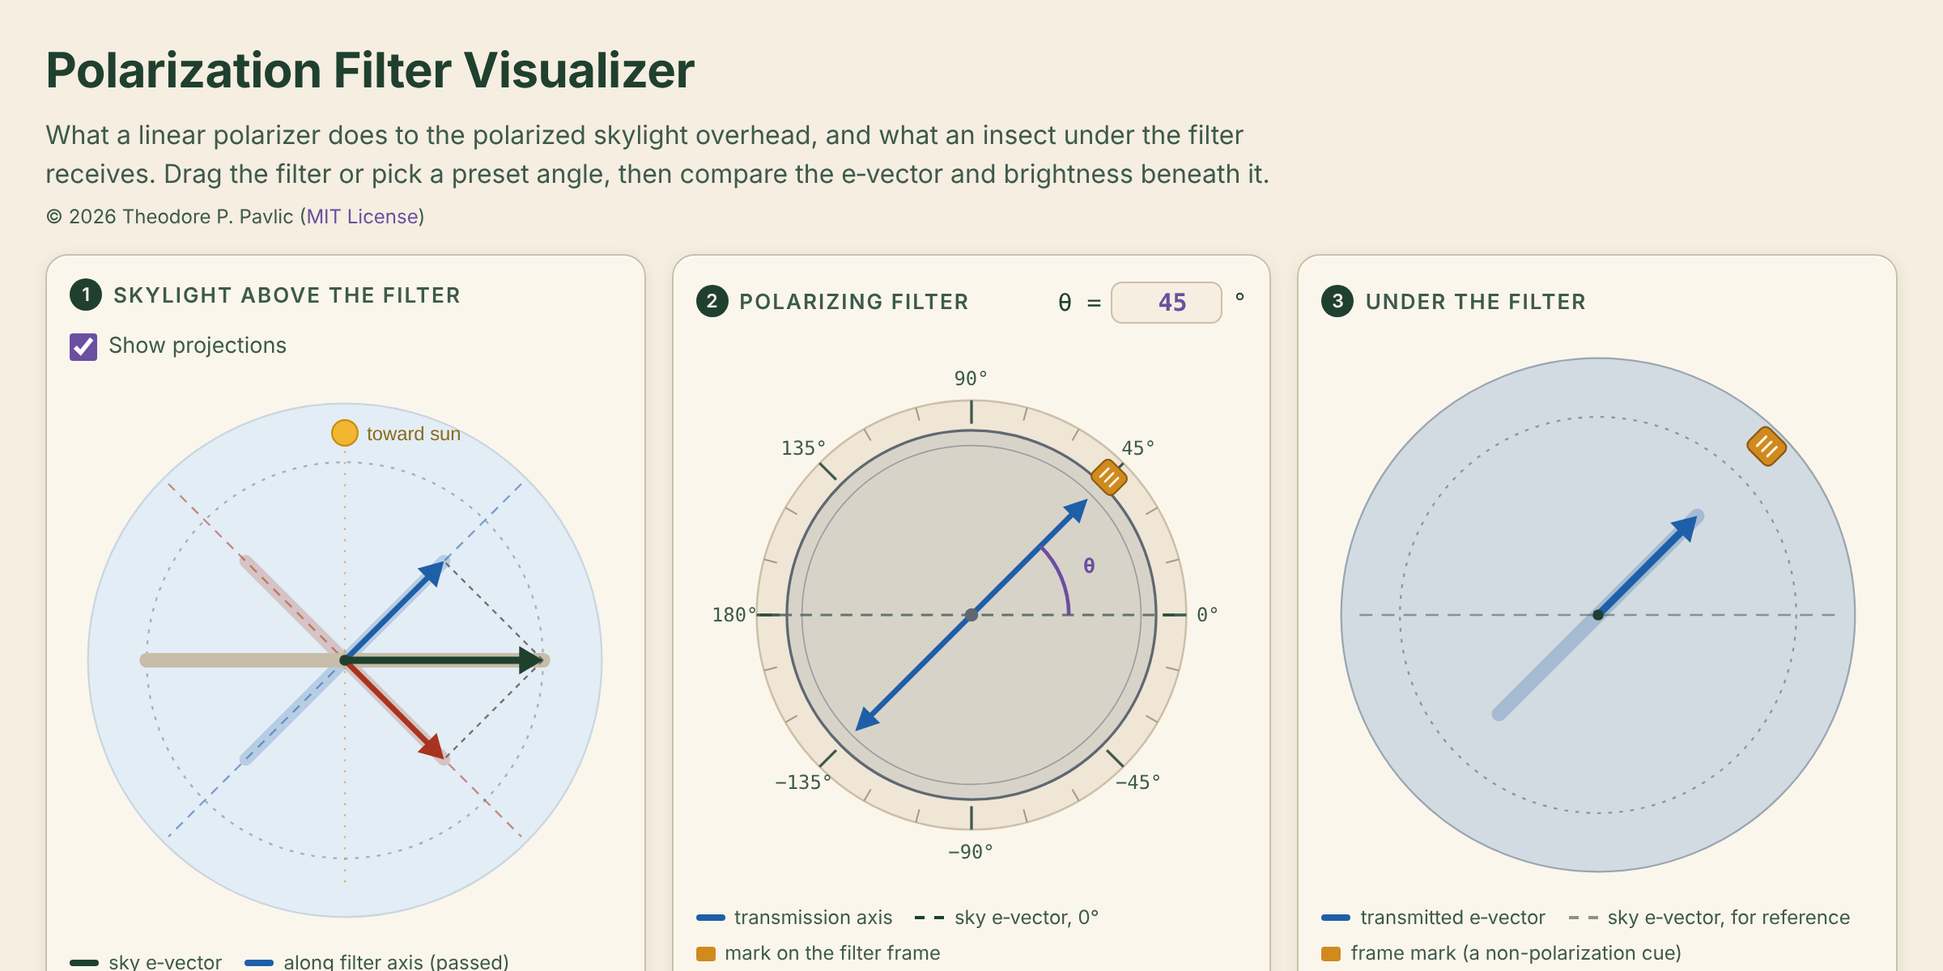
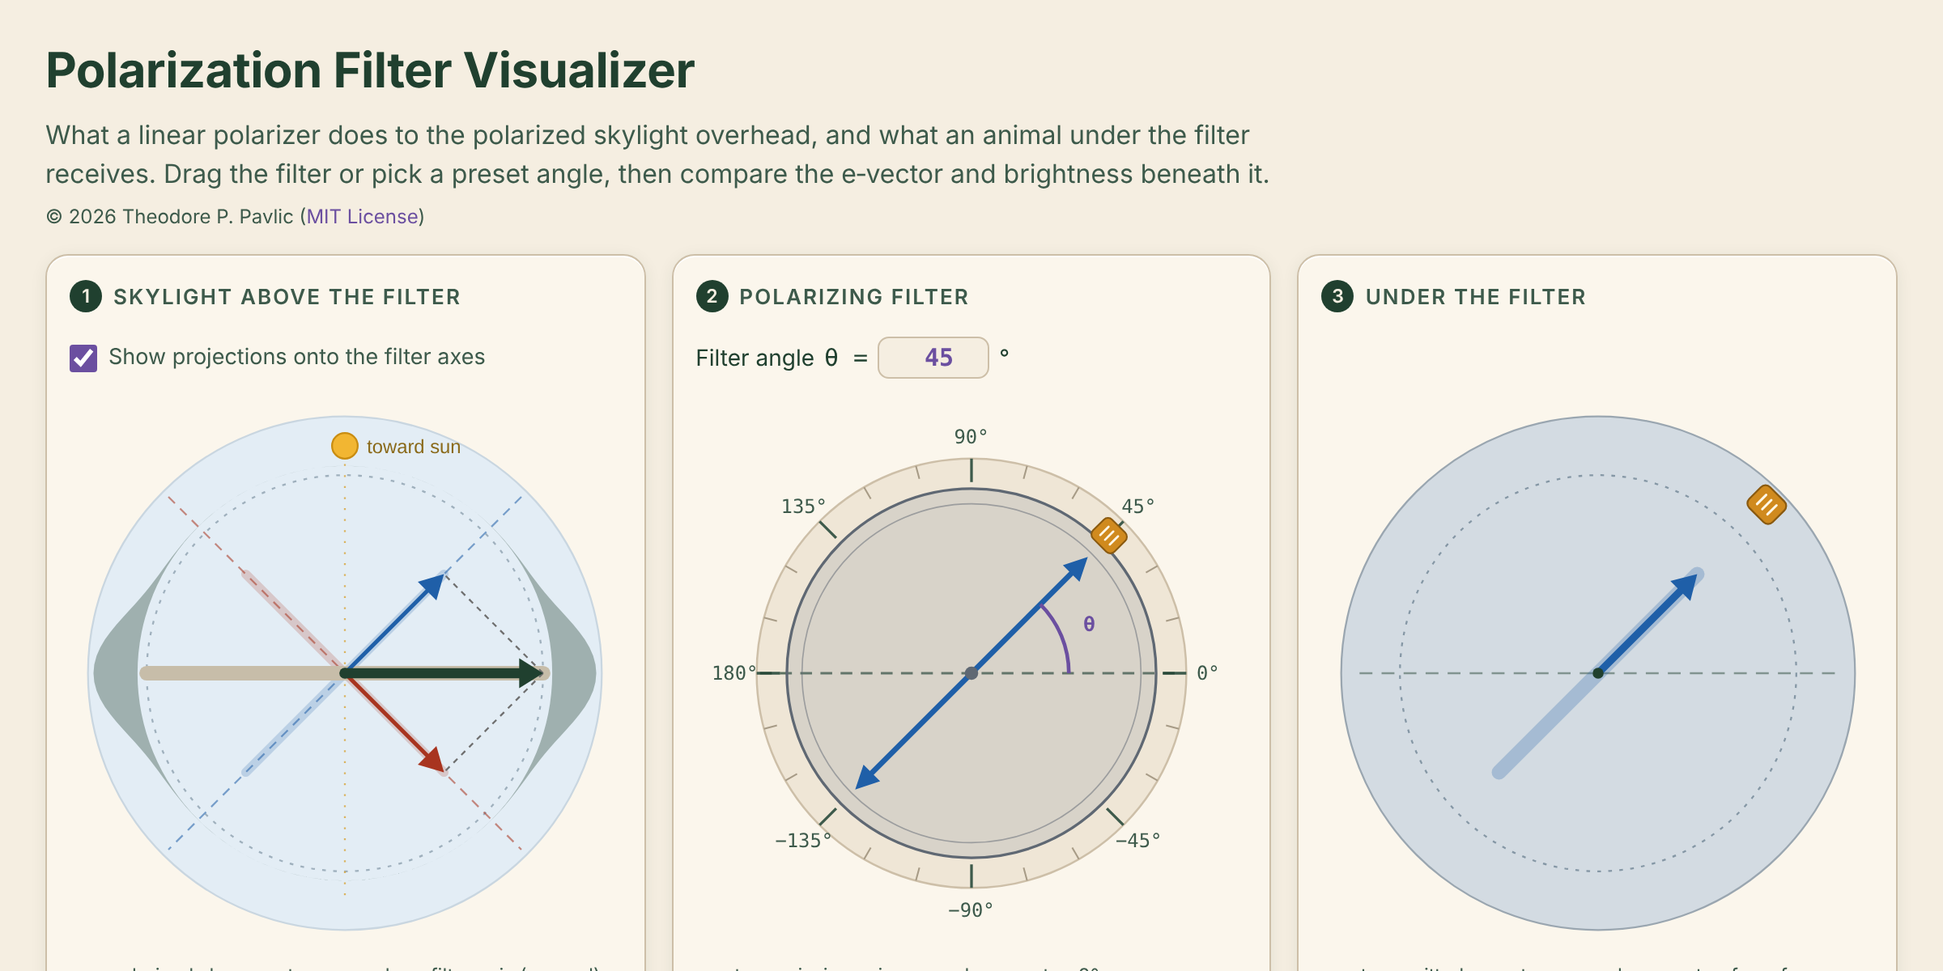
pfilter: Show the sky as a compass switch with an orientation band
The degree-of-polarization slider and the passed-amplitude curve gave
way to a switch between a polarized sky (a sky compass) and an
unpolarized one. A band around the edge of the skylight panel shows
how the sky's e-vector orientations are distributed: peaked at 0 and
180 degrees with the compass on, and spread evenly, with the sun gone,
with it off. The model keeps a general degree of polarization, which
the switch sets to 1 or 0, and the notes still give the brightness for
a partially polarized sky.

The frame mark in the under-filter panel is now a drag handle that
turns the filter as the dial does. Its touch target is an HTML element
over the mark, because touch-action is not honored reliably inside an
SVG, and so a swipe elsewhere on the panel still scrolls the page.

The sky e-vector arrow is now much heavier than its two components, so
that it reads as the primary quantity, and the preview image shows the
new band.

diff --git a/polarization_filter/polarization_filter_visualizer.html b/polarization_filter/polarization_filter_visualizer.html
@@ -84,6 +84,12 @@
   svg#dial{cursor:grab;touch-action:none;border-radius:50%}
   svg#dial.dragging{cursor:grabbing}
   svg#dial:focus{outline:none}
+  /* An HTML target over panel 3's frame mark: touch-action is honored on HTML elements, not reliably
+     inside an SVG, so a drag that starts here turns the filter, whereas the rest of the panel scrolls. */
+  .figwrap{position:relative;width:100%;max-width:340px;margin:0 auto}
+  .grip{position:absolute;width:15%;aspect-ratio:1;border-radius:50%;transform:translate(-50%,-50%);
+    cursor:grab;touch-action:none}
+  .grip.dragging{cursor:grabbing}
   svg#dial:focus-visible{outline:2px solid var(--accent);outline-offset:4px}
 
   .chk{display:inline-flex;align-items:center;gap:7px;font-size:13.5px;color:var(--ink-soft);cursor:pointer;user-select:none;min-height:30px}
@@ -195,14 +201,14 @@
       </div>
       <svg id="src" class="fig" viewBox="0 0 300 300" role="img" aria-label="Sky e‑vector, with its components along and across the filter's transmission axis"></svg>
       <div class="legend">
-        <span class="sw"><i style="background:var(--ink)"></i>polarized sky e‑vector</span>
-        <span class="sw proj-only"><i style="background:var(--pass)"></i>along filter axis (passed)</span>
-        <span class="sw proj-only"><i style="background:var(--block)"></i>across filter axis (blocked)</span>
-        <span class="sw proj-only"><i class="dash" style="border-color:var(--accent)"></i>amplitude passed at each filter angle</span>
+        <span class="sw"><i style="background:var(--ink);height:6px;border-radius:3px"></i>polarized sky e‑vector</span>
+        <span class="sw proj-only"><i style="background:var(--pass);height:3px"></i>along filter axis (passed)</span>
+        <span class="sw proj-only"><i style="background:var(--block);height:3px"></i>across filter axis (blocked)</span>
+        <span class="sw"><i style="background:#20402f59;height:8px"></i>e&#8209;vector orientations in the sky</span>
       </div>
       <div class="rest">
       <div class="readout">
-        <div class="row"><span>Sky e‑vector (reference)</span><span class="v">0°</span></div>
+        <div class="row"><span>Sky e‑vector (reference)</span><span class="v" id="rSky">0°</span></div>
         <div class="row"><span>Passed share of polarized light, cos<sup>2</sup>&theta;</span><span class="v" id="rCos">1.00</span></div>
         <div class="row"><span>Blocked share of polarized light, sin<sup>2</sup>&theta;</span><span class="v" id="rSin">0.00</span></div>
       </div>
@@ -239,11 +245,14 @@
         <h2 id="h-out"><span class="step">3</span>Under the filter</h2>
       </div>
       <div class="tools" aria-hidden="true"></div>
-      <svg id="out" class="fig" viewBox="0 0 300 300" role="img" aria-label="Transmitted e‑vector seen by an animal under the filter"></svg>
+      <div class="figwrap">
+        <svg id="out" class="fig" viewBox="0 0 300 300" role="img" aria-label="Transmitted e‑vector seen by an animal under the filter"></svg>
+        <div class="grip" id="outGrip" title="Drag to turn the filter" aria-hidden="true"></div>
+      </div>
       <div class="legend">
         <span class="sw"><i style="background:var(--pass)"></i>transmitted e‑vector</span>
         <span class="sw"><i class="dash" style="border-color:#20402f88"></i>sky e‑vector, for reference</span>
-        <span class="sw"><i class="tab" style="background:var(--mark)"></i>frame mark (a non-polarization cue)</span>
+        <span class="sw"><i class="tab" style="background:var(--mark)"></i>frame mark, a non-polarization cue (drag to turn)</span>
       </div>
       <div class="rest">
       <div class="readout">
@@ -259,9 +268,8 @@
 
   <section class="card settings" aria-label="Settings">
     <div class="slider">
-      <div class="lab"><label for="dop">Degree of polarization of the skylight, p</label><span class="vl" id="dopV">100%</span></div>
-      <input type="range" id="dop" min="0" max="100" step="1" value="100">
-      <div class="hint">The fraction of the skylight's intensity that is polarized along one e&#8209;vector; the rest has no preferred orientation. Start at 100% for the textbook case. A clear sky overhead is only partially polarized.</div>
+      <div class="lab"><label class="chk" style="min-height:0"><input type="checkbox" id="compass" checked> Polarized sky (a sky compass)</label></div>
+      <div class="hint">On, the skylight overhead is polarized along one e&#8209;vector set by the sun's position, which an animal can use as a compass. Off, the skylight has no preferred e&#8209;vector orientation, as in a world without a sky compass. The band around the edge of panel 1 shows how the sky's e&#8209;vector orientations are distributed.</div>
     </div>
     <div class="slider">
       <div class="lab"><label class="chk" style="min-height:0"><input type="checkbox" id="anim" checked> Animate the oscillation</label><span class="vl" id="rateV">0.40 Hz</span></div>
@@ -283,7 +291,7 @@
       <ul>
         <li><b>Within a pair</b> (for example, 45° and &minus;135°), the light under the filter is identical in e‑vector and brightness; only the physical filter is turned around. If the animals steer by polarization alone, their paths should agree. A difference points to some other cue, such as a mark, edge, scratch, reflection, or shadow on the filter or its mount.</li>
         <li><b>45° against &minus;45°</b> (and 135° against &minus;135°) matches brightness exactly, at <span id="kpHalf">0.50</span> of the open sky for any degree of polarization, and mirrors the e‑vector. This tests the e‑vector's direction without a brightness confound.</li>
-        <li><b>0° against 90°</b> rotates the e‑vector by 90° but also changes brightness, from <span id="kp0">1.00</span> to <span id="kp90">0.00</span> at the current p, and so confounds e‑vector direction with brightness.</li>
+        <li><b>0° against 90°</b> rotates the e‑vector by 90° but also changes brightness, from <span id="kp0">1.00</span> to <span id="kp90">0.00</span> under the current sky, and so confounds e‑vector direction with brightness.</li>
       </ul>
     </div>
   </section>
@@ -301,8 +309,11 @@
       <h3>Why add 135°, &minus;135°, 180°, and &minus;90°</h3>
       <p>Each of these settings repeats the light of a setting already in use (&minus;45°, 45°, 0°, and 90°, respectively), but with the filter physically reversed. Any visible asymmetry of the filter or its mount rotates by 180° between the two members of a pair, whereas the polarization does not change. The amber tab stands in for such a feature. Running both members of a pair is therefore a control for cues other than polarization: polarization predicts the same result within each pair, and a landmark-like cue predicts different ones.</p>
 
+      <h3>With and without a sky compass</h3>
+      <p>The sky-compass switch in the settings shows two extremes. With it on, all of the skylight is polarized along one e&#8209;vector, and the band around the edge of panel 1 is concentrated at that orientation. With it off, the skylight is unpolarized: its e&#8209;vector has no preferred orientation and wanders at random far faster than any photoreceptor can follow, and so the band spreads evenly around the circle and the sun's direction no longer appears. A filter then passes half of the light at every angle, polarized along the filter's own axis. The e&#8209;vector under the filter therefore still turns with the filter, but the brightness no longer changes with its angle.</p>
+
       <h3>A real sky is only partially polarized</h3>
-      <p>Skylight is a mixture of polarized and unpolarized light, and the degree of polarization p is the fraction of its intensity that is polarized. The polarized part keeps one e&#8209;vector orientation, whereas the unpolarized part has no preferred orientation: its e&#8209;vector wanders at random, far faster than any photoreceptor can follow. Panel 1 animates only the polarized part, whose amplitude shrinks as p falls. An ideal polarizer passes, on average, half of the unpolarized light whatever its angle, and it polarizes that light along its own axis as well, giving a brightness of <span class="eqn">I/I<sub>0</sub> = p cos<sup>2</sup>&theta; + (1 &minus; p)/2</span>. The dashed purple curve in panel 1 plots the corresponding amplitude, the square root of that brightness, for every filter angle. At p = 100%, it is a pair of circles, which the tip of the blue component traces as the filter turns. As p falls, it rounds out toward a single circle, because unpolarized light passes equally at every angle. Where the filter's axis meets the curve (the purple dots) is the amplitude of the light under the filter in panel 3. Three consequences follow. Under a crossed filter (90°), an animal is not in the dark: they see dimmer light that is fully polarized at 90° to the sky's e‑vector. At ±45° and ±135°, the brightness is exactly one half for every p, because cos<sup>2</sup>&theta; = 1/2 there. Finally, even the aligned 0° setting is not a sham treatment: it dims the light to (1 + p)/2 of the open sky and raises its degree of polarization to essentially 100%.</p>
+      <p>A real sky lies between these extremes. If p is the fraction of its intensity that is polarized, its degree of polarization, the brightness under an ideal filter is <span class="eqn">I/I<sub>0</sub> = p cos<sup>2</sup>&theta; + (1 &minus; p)/2</span>. Three consequences follow. An animal under a crossed filter (90°) is not in the dark: it sees dimmer light that is fully polarized at 90° to the sky's e‑vector. At ±45° and ±135°, the brightness is exactly one half for every p, because cos<sup>2</sup>&theta; = 1/2 there. Finally, even the aligned 0° setting is not a sham treatment: it dims the light to (1 + p)/2 of the open sky and raises its degree of polarization to essentially 100%.</p>
 
       <h3>Viewpoint and sign of rotation</h3>
       <p>Angles here increase counterclockwise as drawn, which is the experimenter's view looking down on the filter. An animal looking up through the filter sees the same axes with the sense of rotation reversed, and so a counterclockwise turn seen from above is clockwise seen from below. Keep the viewpoint fixed when converting a filter rotation into a predicted change of heading. Also, the e‑vector alone cannot distinguish a rotation of &theta; from one of &theta; &minus; 180°; animals normally resolve that ambiguity with other cues in the sky, such as the sun or the gradients of intensity and color across it.</p>
@@ -358,6 +369,11 @@
     return (a < 0 ? '−' + Math.abs(a) : String(a)) + '°';
   }
   const pt = (r, deg) => [C + r * Math.cos(rad(deg)), C - r * Math.sin(rad(deg))];
+  function besselI0(x) {            // modified Bessel function of order 0, by its power series
+    let sum = 1, term = 1;
+    for (let k = 1; k < 30; k++) { term *= (x / (2 * k)) * (x / (2 * k)); sum += term; }
+    return sum;
+  }
   function intensity(theta, p) {
     const c = Math.cos(rad(theta));
     return p * c * c + (1 - p) / 2;
@@ -406,26 +422,25 @@
   el('circle', { cx: C, cy: C, r: 140, fill: '#e3edf5', stroke: '#c9d6e0', 'stroke-width': 1 }, src);
   el('circle', { cx: C, cy: C, r: R, fill: 'none', stroke: '#9fb0bd', 'stroke-width': 1, 'stroke-dasharray': '2 4' }, src);
   // the sun lies along the solar meridian, perpendicular to the overhead e‑vector
-  el('line', { x1: C, y1: 24, x2: C, y2: 276, stroke: '#d9a63a', 'stroke-width': 1, 'stroke-dasharray': '1 5', opacity: .8 }, src);
-  el('circle', { cx: C, cy: 26, r: 7, fill: '#f2b632', stroke: '#c98d12', 'stroke-width': 1 }, src);
-  const sunTxt = el('text', { x: C + 12, y: 30, 'font-size': 10.5, fill: '#8a6a1a', 'font-family': 'Outfit, sans-serif' }, src);
+  // the distribution of e-vector orientations, drawn as a band around the edge
+  const band = el('path', { fill: COL.ink, 'fill-opacity': .35, 'fill-rule': 'evenodd' }, src);
+  const sunG = el('g', {}, src);
+  el('line', { x1: C, y1: 24, x2: C, y2: 276, stroke: '#d9a63a', 'stroke-width': 1, 'stroke-dasharray': '1 5', opacity: .8 }, sunG);
+  el('circle', { cx: C, cy: 26, r: 7, fill: '#f2b632', stroke: '#c98d12', 'stroke-width': 1 }, sunG);
+  const sunTxt = el('text', { x: C + 12, y: 30, 'font-size': 10.5, fill: '#8a6a1a', 'font-family': 'Outfit, sans-serif' }, sunG);
   sunTxt.textContent = 'toward sun';
   const projG = el('g', {}, src);
   const axPar = el('line', { stroke: COL.pass, 'stroke-width': 1, 'stroke-dasharray': '5 4', opacity: .55 }, projG);
   const axPerp = el('line', { stroke: COL.block, 'stroke-width': 1, 'stroke-dasharray': '5 4', opacity: .55 }, projG);
-  const pathPar = el('line', { stroke: COL.pass, 'stroke-width': 7, 'stroke-linecap': 'round', opacity: .22 }, projG);
-  const pathPerp = el('line', { stroke: COL.block, 'stroke-width': 7, 'stroke-linecap': 'round', opacity: .22 }, projG);
+  const pathPar = el('line', { stroke: COL.pass, 'stroke-width': 5, 'stroke-linecap': 'round', opacity: .2 }, projG);
+  const pathPerp = el('line', { stroke: COL.block, 'stroke-width': 5, 'stroke-linecap': 'round', opacity: .2 }, projG);
   const srcPath = el('line', { stroke: COL.path, 'stroke-width': 8, 'stroke-linecap': 'round' }, src);
-  // the amplitude an ideal filter passes at every angle; drawn above the paths, below the arrows
-  const curveG = el('g', {}, src);
-  const curve = el('path', { fill: 'none', stroke: '#6b4fa0', 'stroke-width': 1.6, 'stroke-dasharray': '5 3' }, curveG);
-  const curveDots = [0, 1].map(() => el('circle', { r: 4, fill: '#6b4fa0', stroke: '#fff', 'stroke-width': 1 }, curveG));
   const projG2 = el('g', {}, src);
   const conPar = el('line', { stroke: '#6f6f6f', 'stroke-width': 1, 'stroke-dasharray': '3 3' }, projG2);
   const conPerp = el('line', { stroke: '#6f6f6f', 'stroke-width': 1, 'stroke-dasharray': '3 3' }, projG2);
-  const srcArrow = makeArrow(src, COL.ink, 4);
-  const blueArrow = makeArrow(projG2, COL.pass, 3);
-  const redArrow = makeArrow(projG2, COL.block, 3);
+  const srcArrow = makeArrow(src, COL.ink, 5.5);
+  const blueArrow = makeArrow(projG2, COL.pass, 2.2);
+  const redArrow = makeArrow(projG2, COL.block, 2.2);
   el('circle', { cx: C, cy: C, r: 3, fill: COL.ink }, src);
 
   // ---------- panel 2: the dial ----------
@@ -464,6 +479,7 @@
   el('line', { x1: C - 130, y1: C, x2: C + 130, y2: C, stroke: COL.ink, 'stroke-width': 1.2, 'stroke-dasharray': '7 5', opacity: .45 }, out);
   const outMark = el('g', {}, out);
   frameMark(outMark, 124);
+  const outGrip = document.getElementById('outGrip');
   const outPath = el('line', { stroke: COL.pass, 'stroke-width': 8, 'stroke-linecap': 'round', opacity: .25 }, out);
   const outArrow = makeArrow(out, COL.pass, 4);
   el('circle', { cx: C, cy: C, r: 3, fill: COL.ink }, out);
@@ -525,8 +541,9 @@
     const c = Math.cos(rad(th)), s = Math.sin(rad(th));
     const I = intensity(th, p);
 
-    document.getElementById('rCos').textContent = (c * c).toFixed(2);
-    document.getElementById('rSin').textContent = (s * s).toFixed(2);
+    document.getElementById('rSky').textContent = p > 0 ? '0\u00b0' : '\u2013';
+    document.getElementById('rCos').textContent = p > 0 ? (c * c).toFixed(2) : '\u2013';
+    document.getElementById('rSin').textContent = p > 0 ? (s * s).toFixed(2) : '\u2013';
     document.getElementById('rAxis').textContent = fmtDeg(axisOf(th));
     document.getElementById('rDop').textContent = I < 1e-6 ? 'no light' : '100%';
     document.getElementById('rInt').textContent = I.toFixed(2);
@@ -543,6 +560,8 @@
     // static geometry
     filt.setAttribute('transform', 'rotate(' + (-th) + ' ' + C + ' ' + C + ')');
     outMark.setAttribute('transform', 'rotate(' + (-th) + ' ' + C + ' ' + C + ')');
+    const [gx, gy] = pt(131, th);
+    outGrip.style.left = (gx / 3) + '%'; outGrip.style.top = (gy / 3) + '%';
     outBg.setAttribute('fill', shade(I));
     darkTxt.textContent = I < 1e-6 ? 'dark: all light blocked' : '';
     setSeg(axPar, 136, th); setSeg(axPerp, 136, th + 90);
@@ -588,20 +607,20 @@
     projG.style.display = state.proj ? '' : 'none';
     projG2.style.display = state.proj ? '' : 'none';
 
-    // the passed-amplitude curve r(phi) = R sqrt(p cos^2 phi + (1 - p)/2) and its crossings with the filter axis
-    let d = '';
+
+    // the band: with the sky compass on, e-vector orientations concentrate around 0° and 180°
+    // (an axial von Mises shape, widened for visibility); with it off, the same total amount
+    // spreads evenly. Its height is that density, from a base just outside the amplitude ring.
+    const B0 = 113, H = 24, K = 6, flat = H * Math.exp(-K) * besselI0(K);
+    let bd = '';
     for (let a = 0; a <= 360; a += 2) {
-      const [x, y] = pt(R * Math.sqrt(intensity(a, p)), a);
-      d += (a ? 'L' : 'M') + x.toFixed(2) + ' ' + y.toFixed(2);
+      const h = p > 0 ? H * Math.exp(K * (Math.cos(rad(2 * a)) - 1)) : flat;
+      const [x, y] = pt(B0 + h, a);
+      bd += (a ? 'L' : 'M') + x.toFixed(2) + ' ' + y.toFixed(2);
     }
-    curve.setAttribute('d', d + 'Z');
-    const rTh = R * Math.sqrt(I);
-    curveDots.forEach((dt, k) => {
-      const [x, y] = pt(rTh, th + 180 * k);
-      dt.setAttribute('cx', x); dt.setAttribute('cy', y);
-      dt.setAttribute('visibility', rTh > 0.5 ? 'visible' : 'hidden');
-    });
-    curveG.style.display = state.proj ? '' : 'none';
+    bd += 'Z M' + (C + B0) + ' ' + C + ' A' + B0 + ' ' + B0 + ' 0 1 0 ' + (C - B0) + ' ' + C + ' A' + B0 + ' ' + B0 + ' 0 1 0 ' + (C + B0) + ' ' + C + 'Z';
+    band.setAttribute('d', bd);
+    sunG.style.display = p > 0 ? '' : 'none';
     if (!state.animate) draw(1);
   }
 
@@ -645,9 +664,10 @@
   function startAnim() { if (rafId === null) { last = null; rafId = requestAnimationFrame(tick); } }
 
   // ---------- dial interaction (mouse, pen, and touch) ----------
-  function ptrAngle(e) {
-    const r = dial.getBoundingClientRect();
-    const x = -14 + (e.clientX - r.left) / r.width * 328, y = -14 + (e.clientY - r.top) / r.height * 328;
+  // angle of the pointer about the figure's center, for an svg whose viewBox starts at v0 and spans vs
+  function ptrAngle(svg, v0, vs, e) {
+    const r = svg.getBoundingClientRect();
+    const x = v0 + (e.clientX - r.left) / r.width * vs, y = v0 + (e.clientY - r.top) / r.height * vs;
     return { a: Math.atan2(-(y - C), x - C) * 180 / Math.PI, d: Math.hypot(x - C, y - C) };
   }
   let drag = null;
@@ -660,29 +680,34 @@
     }
     return a;
   }
-  dial.addEventListener('pointerdown', e => {
-    const q = ptrAngle(e);
-    if (q.d < 12) return;
-    drag = { id: e.pointerId, lastA: q.a, raw: state.theta };
-    dial.setPointerCapture(e.pointerId);
-    dial.classList.add('dragging');
-    e.preventDefault();
-  });
-  dial.addEventListener('pointermove', e => {
-    if (!drag || e.pointerId !== drag.id) return;
-    const q = ptrAngle(e);
-    if (q.d < 12) return;                  // near the center the angle is ill defined
-    drag.raw += normAngle(q.a - drag.lastA);
-    drag.lastA = q.a;
-    const a = snapped(drag.raw);
-    if (a !== state.theta) setTheta(a);
-  });
-  function endDrag(e) {
-    if (!drag || e.pointerId !== drag.id) return;
-    drag = null; dial.classList.remove('dragging');
+  // Either the whole dial or the grip on panel 3's frame mark starts a drag; both turn the filter.
+  function makeDraggable(target, svg, v0, vs) {
+    target.addEventListener('pointerdown', e => {
+      const q = ptrAngle(svg, v0, vs, e);
+      if (q.d < 12) return;
+      drag = { id: e.pointerId, lastA: q.a, raw: state.theta, svg, v0, vs, target };
+      target.setPointerCapture(e.pointerId);
+      svg.classList.add('dragging'); target.classList.add('dragging');
+      e.preventDefault();
+    });
+    target.addEventListener('pointermove', e => {
+      if (!drag || e.pointerId !== drag.id) return;
+      const q = ptrAngle(drag.svg, drag.v0, drag.vs, e);
+      if (q.d < 12) return;                  // near the center the angle is ill defined
+      drag.raw += normAngle(q.a - drag.lastA);
+      drag.lastA = q.a;
+      const a = snapped(drag.raw);
+      if (a !== state.theta) setTheta(a);
+    });
+    const end = e => {
+      if (!drag || e.pointerId !== drag.id) return;
+      drag.svg.classList.remove('dragging'); drag.target.classList.remove('dragging'); drag = null;
+    };
+    target.addEventListener('pointerup', end);
+    target.addEventListener('pointercancel', end);
   }
-  dial.addEventListener('pointerup', endDrag);
-  dial.addEventListener('pointercancel', endDrag);
+  makeDraggable(dial, dial, -14, 328);
+  makeDraggable(outGrip, out, 0, 300);
   dial.addEventListener('keydown', e => {
     const th = state.theta;
     let a = null;
@@ -705,12 +730,8 @@
   document.getElementById('mirrorBtn').addEventListener('click', () => setTheta(-state.theta));
   document.getElementById('snap').addEventListener('change', e => { state.snap = e.target.checked; });
   document.getElementById('showProj').addEventListener('change', e => { state.proj = e.target.checked; refresh(); });
-  const dop = document.getElementById('dop');
-  dop.addEventListener('input', () => {
-    state.p = dop.value / 100;
-    document.getElementById('dopV').textContent = dop.value + '%';
-    refresh();
-  });
+  // The model keeps a general degree of polarization p; the switch sets its two extremes.
+  document.getElementById('compass').addEventListener('change', e => { state.p = e.target.checked ? 1 : 0; refresh(); });
   const anim = document.getElementById('anim');
   anim.checked = state.animate;
   anim.addEventListener('change', () => {
